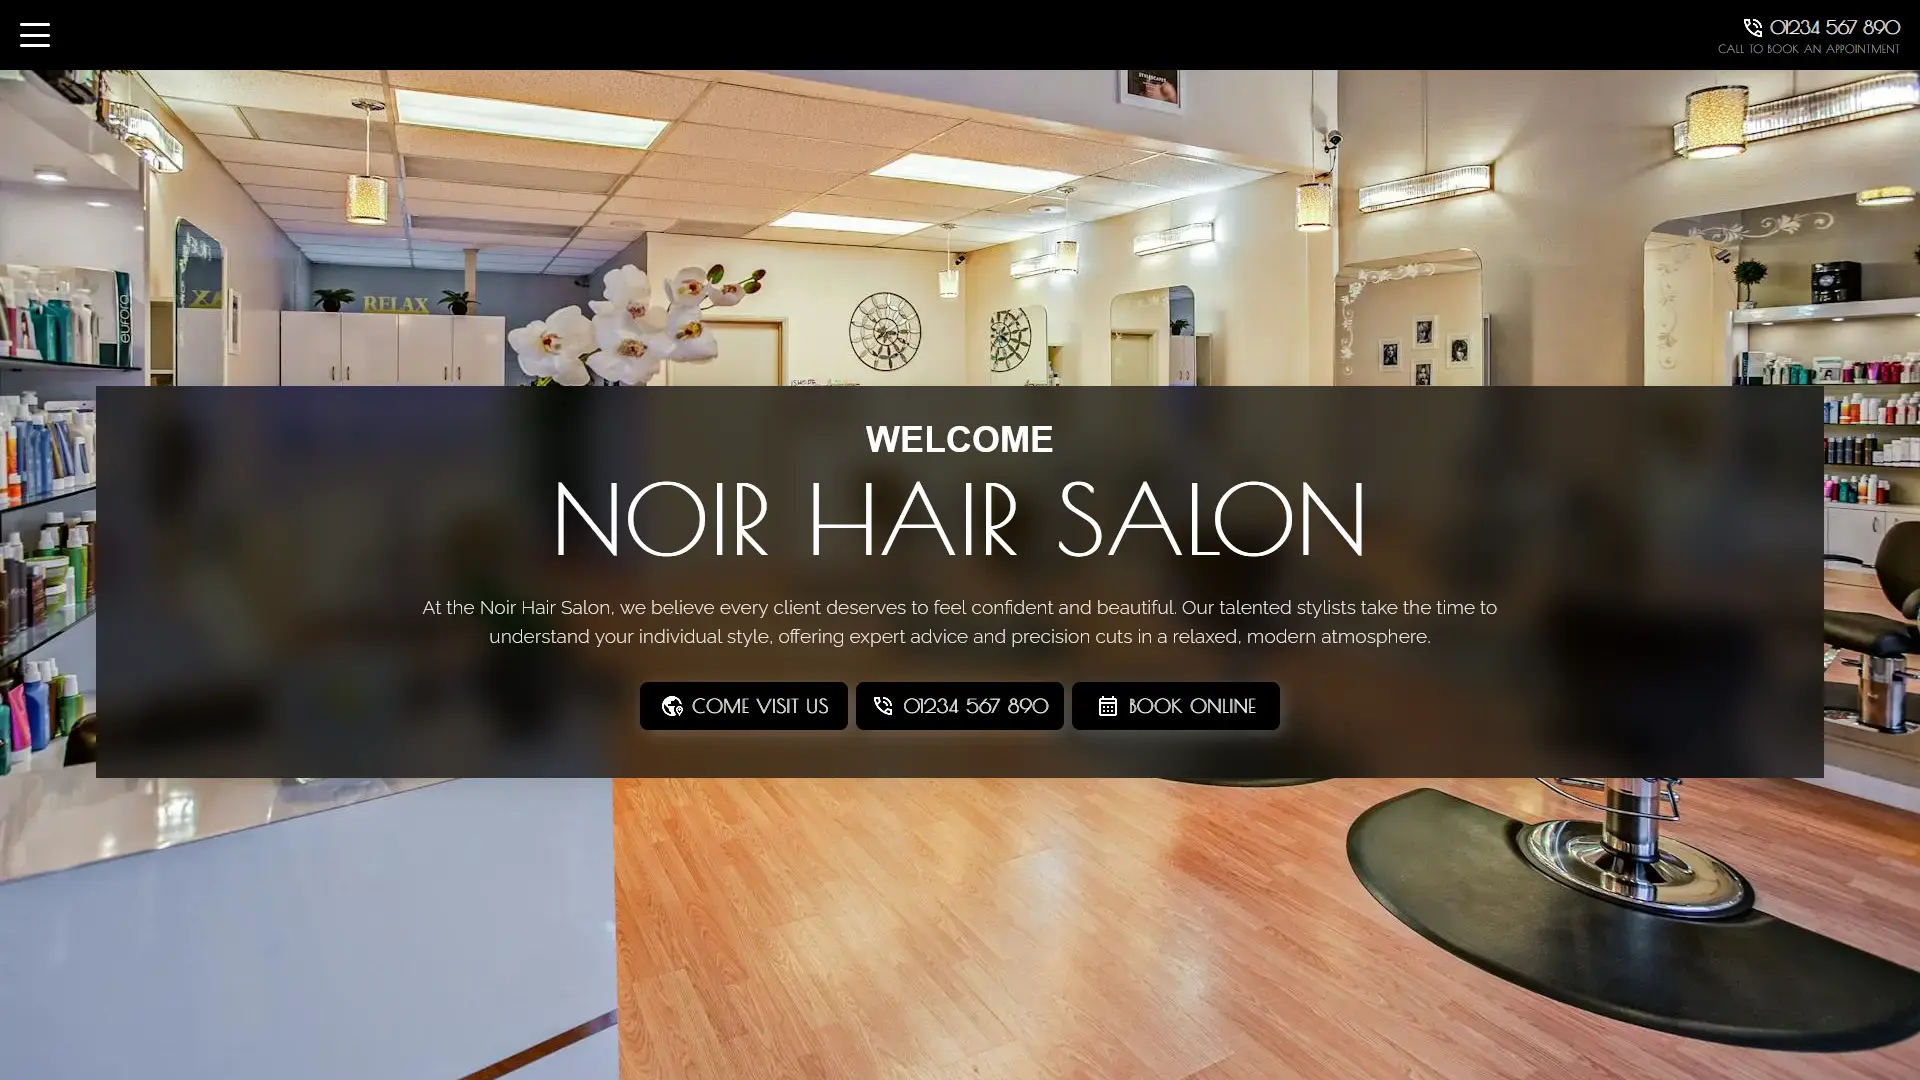
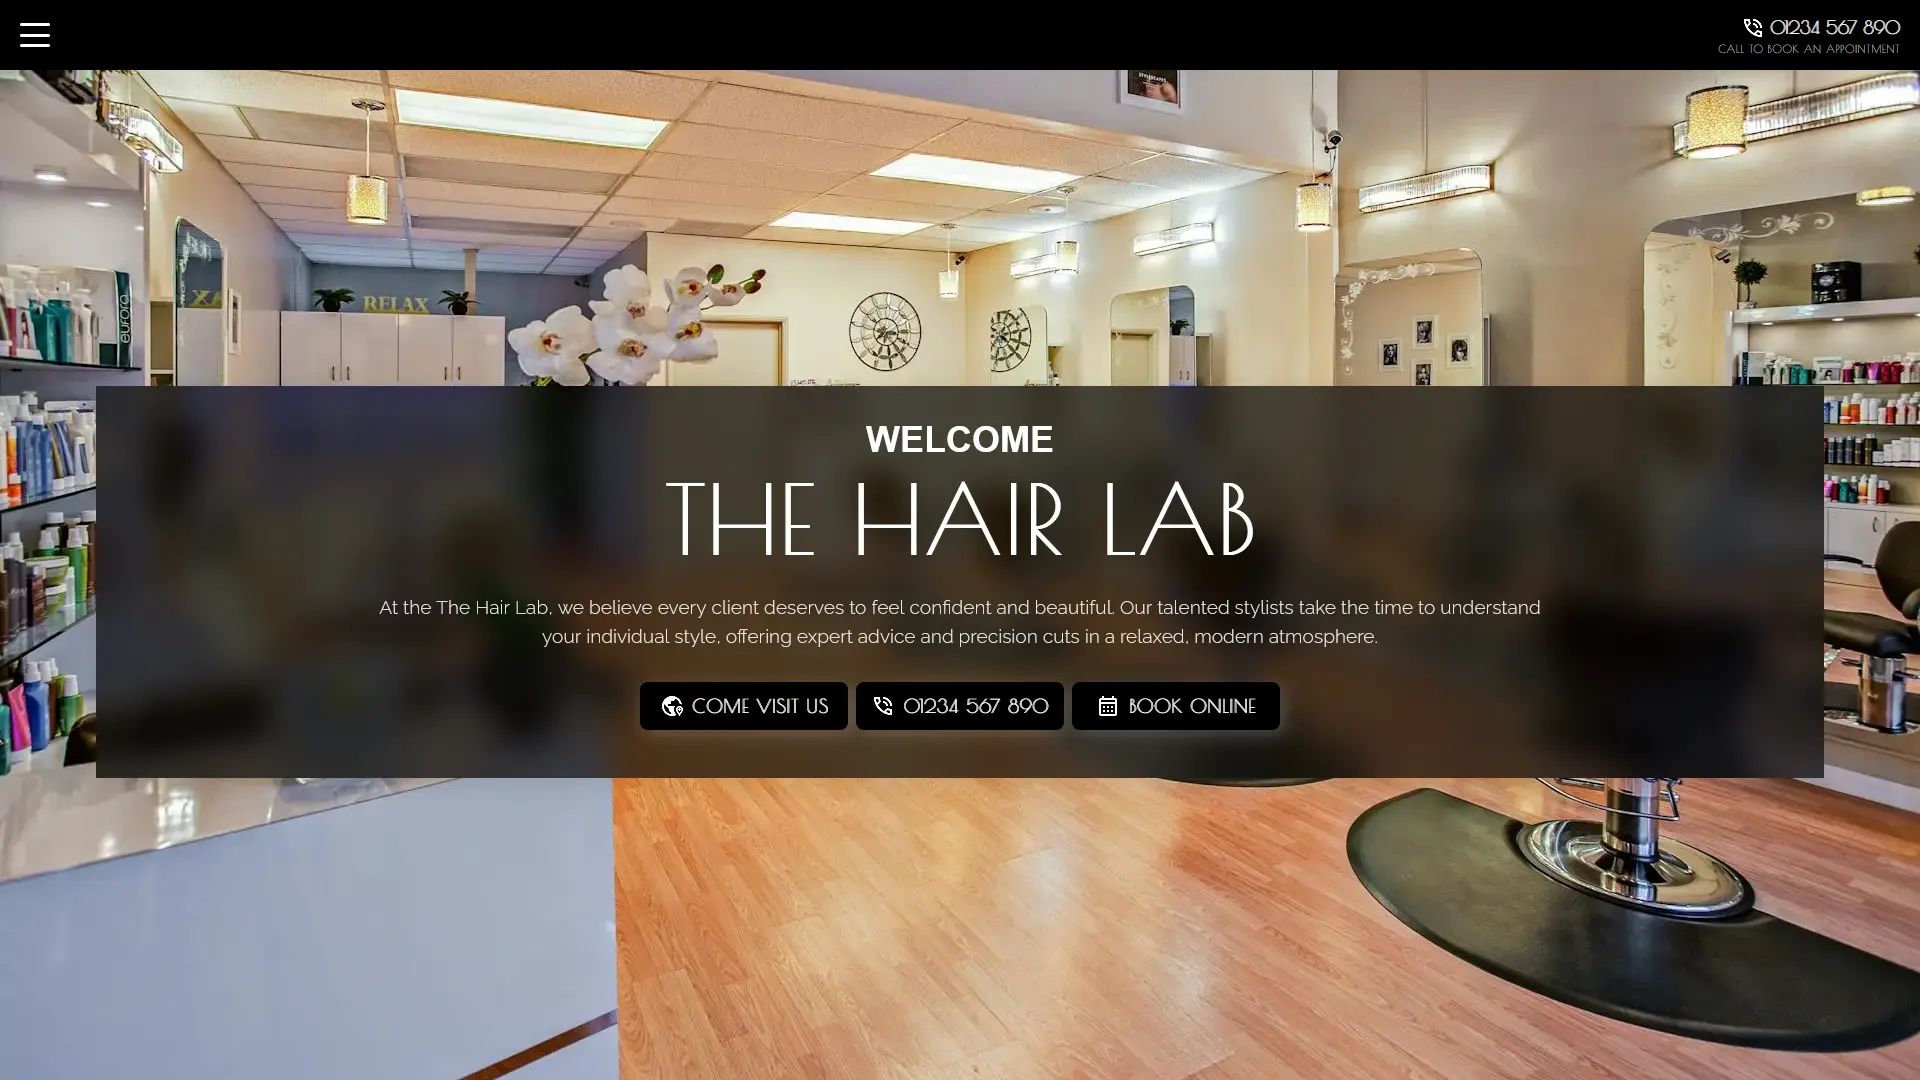
.

Changed region(s): [[0.2812, 0.4278, 0.7188, 0.5194], [0.2188, 0.55, 0.8125, 0.6111]]

diff --git a/faq.html b/faq.html
@@ -92,11 +92,11 @@
 
                 <div class="dropdown fade-in" data-dropdown="1"><div class="dropdown-header"><h3>How does it work?</h3></div>
                 <div class="dropdown-content"><div class="dropdown-inner">
-                            <p>Firstly, you should contact me via the <a href="/contact.html"><strong>contact page</strong></a>, and tell me as much as you can about what you'd like to begin the initial consultation phase. I'll get back to you as soon as possible.</p>
+                            <p>Firstly,contact me via the <a href="/contact.html"><strong>contact page</strong></a> to begin the initial consultation phase. Tell me as much as you can about what you'd for your site, and I'll get back to you as soon as possible.</p>
                             <ul>
                                 <li><strong>IMPORTANT</strong>: the more detail you can give me at this stage, the smoother the process will be. Changes later can cost extra.</li>
                             </ul>
-                            <p>When I have a clear understanding of your needs, I'll send you a contract to sign. Once that contract has been signed, I'll begin work on your website, and I'll keep you updated on the progress. This is when you'd send me any content you want on the website, such as images or text.</p>
+                            <p>When I have a clear understanding of your needs, I'll send you a contract to sign. Once that contract has been signed, I'll begin work on your website, and I'll keep you updated on the progress. This is when you'd send me any content you want on the website, such as images and text.</p>
                             <p>When the site has been built, I'll send you a link to take a look. At this stage, I'm happy to make non-structural changes, such as colours, effects, images, etc. However, if you'd like me to make any structural changes, such as new pages or changing the page layout, that will incur an additional fee. This is why it's so important to be as detailed as possible during the initial consultation phase, as anything agreed upon during that phase will be included in the ongoing monthly fee.</p>
                             <p>After any changes have been made, the site will go live soon thereafter. If you have a domain you'd like me to connect to the website, I can do that for you too.</p>
                             <p>And... that's it! You'll be able to make unlimited content changes (such as images or text) to the site going forward simply by emailing me. I'll make sure to monitor the site regularly, to ensure everything is running smoothly. If everything goes according to plan, you should never have to worry about your website ever again.</p>
@@ -120,12 +120,12 @@
 
                 <div class="dropdown fade-in" data-dropdown="5"><div class="dropdown-header"><h3>What happens if I cancel?</h3></div>
                 <div class="dropdown-content"><div class="dropdown-inner">
-                            <p>The website will remain active until the end of your billing period, at which point it'll be taken offline.</p>
+                            <p>The website will remain online until the end of your billing period, at which point it'll be taken offline.</p>
                 </div></div></div>
 
                 <div class="dropdown fade-in" data-dropdown="6"><div class="dropdown-header"><h3>Who actually owns the website?</h3></div>
                 <div class="dropdown-content"><div class="dropdown-inner">
-                            <p>Unless you decide to pay the Fixed Buyout Fee, which will be specified in your contract, I retain ownership of the site. However, the ownership of any images or content you provide to me will, of course, remain yours.</p>
+                            <p>Unless you decide to pay the Fixed Buyout Fee, which will be specified in your contract, I retain ownership of the site. However, the ownership of the domain name, as well as any images or content you provide to me will, of course, remain yours.</p>
                 </div></div></div>
 
                 <div class="dropdown fade-in" data-dropdown="7"><div class="dropdown-header"><h3>Can I buy the website outright later?</h3></div>

diff --git a/demo-1/index.html b/demo-1/index.html
@@ -3,7 +3,7 @@
 <head>
     <meta charset="UTF-8">
     <meta name="viewport" content="width=device-width, initial-scale=1.0">
-    <title>Home | Noir Hair Salon</title>
+    <title>Home | The Hair Lab</title>
     <link rel="preload" as="image" href="images/obsidian.jpg">
     <link rel="icon" type="image/x-icon" href="images/favicon.png">
     <link rel="stylesheet" href="style/style.css">
@@ -84,11 +84,11 @@
     <main class="main-content">
         <div class="blur-overlay"></div>
         <div class="content-wrapper">
-            <section class="parallax1 fade-in1">
+            <section class="parallax1">
                 <div class="parallax1-content fade-in1">
                     <h4>Welcome</h4>
-                    <h1>Noir Hair Salon</h1>
-                    <p>At the Noir Hair Salon, we believe every client deserves to feel confident and beautiful. Our talented stylists take the time to understand your individual style, offering expert advice and precision cuts in a relaxed, modern atmosphere.</p>
+                    <h1>The Hair Lab</h1>
+                    <p>At the The Hair Lab, we believe every client deserves to feel confident and beautiful. Our talented stylists take the time to understand your individual style, offering expert advice and precision cuts in a relaxed, modern atmosphere.</p>
                     <div class="button-container">
                         <button class="button1"><a href="https://www.google.com/maps/place/Buckingham+Palace/@51.5013641,-0.1404824,17.13z/data=!3m1!5s0x487605276d38fb6b:0xe1c60228d7946675!4m6!3m5!1s0x48760520cd5b5eb5:0xa26abf514d902a7!8m2!3d51.501364!4d-0.14189!16zL20vMDE5OGc!5m1!1e4?entry=ttu&g_ep=EgoyMDI1MDkyMy4wIKXMDSoASAFQAw%3D%3D" target="_blank"><img src="images/address.png" alt=""><strong>Come visit us</strong></a></button>
                         <button class="button1"><a href="tel:+441234567890"><img src="images/call.png" alt=""><strong>01234 567 890</strong></a></button>
@@ -96,8 +96,8 @@
                     </div>
                 </div>
             </section>
-            <section class="services-home fade-in1">
-                <h2 class="services-home-title">Our Services</h2>
+            <section class="services-home">
+                <h2 class="services-home-title fade-in1">Our Services</h2>
                 <div class="shwrapper">
                     <div class="services-home-content fade-in1">
                         <div class="image-container rotate-zoom fade-in1">
@@ -212,11 +212,11 @@
                     </div>
                 </div>
             </section>
-            <section class="scroller-container fade-in1">
+            <section class="scroller-container">
                 <div class="scroller-section">
-                    <h2 class="scroller-title">Gallery</h2>
+                    <h2 class="scroller-title fade-in1">Gallery</h2>
                     <div class="scroller-scroller">
-                        <div class="scroller-track">
+                        <div class="scroller-track fade-in1">
                             <!-- First set of images -->
                             <a href="gallery.html" class="scroller-item">
                                 <img src="images/images/hg1.jpg" alt="Salon Work 1">

diff --git a/index.html b/index.html
@@ -210,7 +210,7 @@
             <div class="work fade-in">
                 <div class="work-text fade-in"><a href="demo-1/index.html" target="_blank"><img src="images/demo-1.webp" width=100% alt="Preview of the Noir Hair Salon demo site"></a></div>
                 <div class="work-text fade-in">
-                    <h3>Noir Hair Salon [DEMO]</h3>
+                    <h3>THe Hair Lab [DEMO]</h3>
                     <p>A modern, stylish multi-page website for a hair salon looking to grow their business.</p>
                 </div>
                 <div class="work-text fade-in">
@@ -231,7 +231,7 @@
                 <div class="work-text fade-in"><a href="demo-3/index.html" target="_blank"><img src="images/demo-3.webp" width=100% alt="Preview of the Meridian Wealth demo site"></a></div>
                 <div class="work-text fade-in">
                     <h3>Meridian Wealth [Demo]</h3>
-                    <p>A minimal, sophisticated site for a wealth management firm, looking to communicate professionalism.</p>
+                    <p>A minimal, sophisticated site for a wealth management firm, looking to build trust with potential clients.</p>
                 </div>
                 <div class="work-text fade-in">
                     <a href="demo-3/index.html" target="_blank"><button class="work-button fade-in"><span>Visit website</span></button></a>

diff --git a/demo-1/style/style.css b/demo-1/style/style.css
@@ -1,7 +1,7 @@
 /* Global */
 
 /* ==========================================================================
-   SCROLLER BEGIN!!!!
+   SIDEBAR DISAPPEAR BEGIN!!!!
 
 html::-webkit-scrollbar {
     display: none;
@@ -13,7 +13,7 @@ html {
     overflow-y: scroll;
 }
 
-   SCROLLER END!!!!
+   SIDEBAR DISAPPEAR END!!!!
 ========================================================================== */
 
 * {
@@ -446,19 +446,6 @@ body.nav-open .main-content p {
     min-height: calc(100vh - 70px);
     width: 75%;
     margin-bottom: 2rem;
-}
-
-.about {
-    margin: 0 auto 8rem auto;
-}
-
-.about-title {
-    text-align: center;
-    font-size: clamp(2rem, 5vw, 3.5rem);
-    text-transform: uppercase;
-    letter-spacing: 2px;
-    color: rgb(255, 255, 255);
-    padding-bottom: 1rem;
 }
 
 .services-home-title {

diff --git a/demo-1/team.html b/demo-1/team.html
@@ -3,7 +3,7 @@
 <head>
     <meta charset="UTF-8">
     <meta name="viewport" content="width=device-width, initial-scale=1.0">
-    <title>Meet the Team | Noir Hair Salon</title>
+    <title>Meet the Team | The Hair Lab</title>
     <link rel="icon" type="image/x-icon" href="images/favicon.png">
     <link rel="stylesheet" href="style/style.css">
     <link rel="preconnect" href="https://fonts.googleapis.com">

diff --git a/demo-1/services.html b/demo-1/services.html
@@ -3,7 +3,7 @@
 <head>
     <meta charset="UTF-8">
     <meta name="viewport" content="width=device-width, initial-scale=1.0">
-    <title>Our Services | Noir Hair Salon</title>
+    <title>Our Services | The Hair Lab</title>
     <link rel="icon" type="image/x-icon" href="images/favicon.png">
     <link rel="stylesheet" href="style/style.css">
     <link rel="preconnect" href="https://fonts.googleapis.com">

diff --git a/demo-1/contact.html b/demo-1/contact.html
@@ -3,7 +3,7 @@
 <head>
     <meta charset="UTF-8">
     <meta name="viewport" content="width=device-width, initial-scale=1.0">
-    <title>Contact Us | Noir Hair Salon</title>
+    <title>Contact Us | The Hair Lab</title>
     <link rel="icon" type="image/x-icon" href="images/favicon.png">
     <link rel="stylesheet" href="style/style.css">
     <link rel="preconnect" href="https://fonts.googleapis.com">

diff --git a/demo-1/gallery.html b/demo-1/gallery.html
@@ -3,7 +3,7 @@
 <head>
     <meta charset="UTF-8">
     <meta name="viewport" content="width=device-width, initial-scale=1.0">
-    <title>Gallery | Noir Hair Salon</title>
+    <title>Gallery | The Hair Lab</title>
     <link rel="icon" type="image/x-icon" href="images/favicon.png">
     <link rel="preconnect" href="https://fonts.googleapis.com">
     <link rel="stylesheet" href="style/gallery.css">
